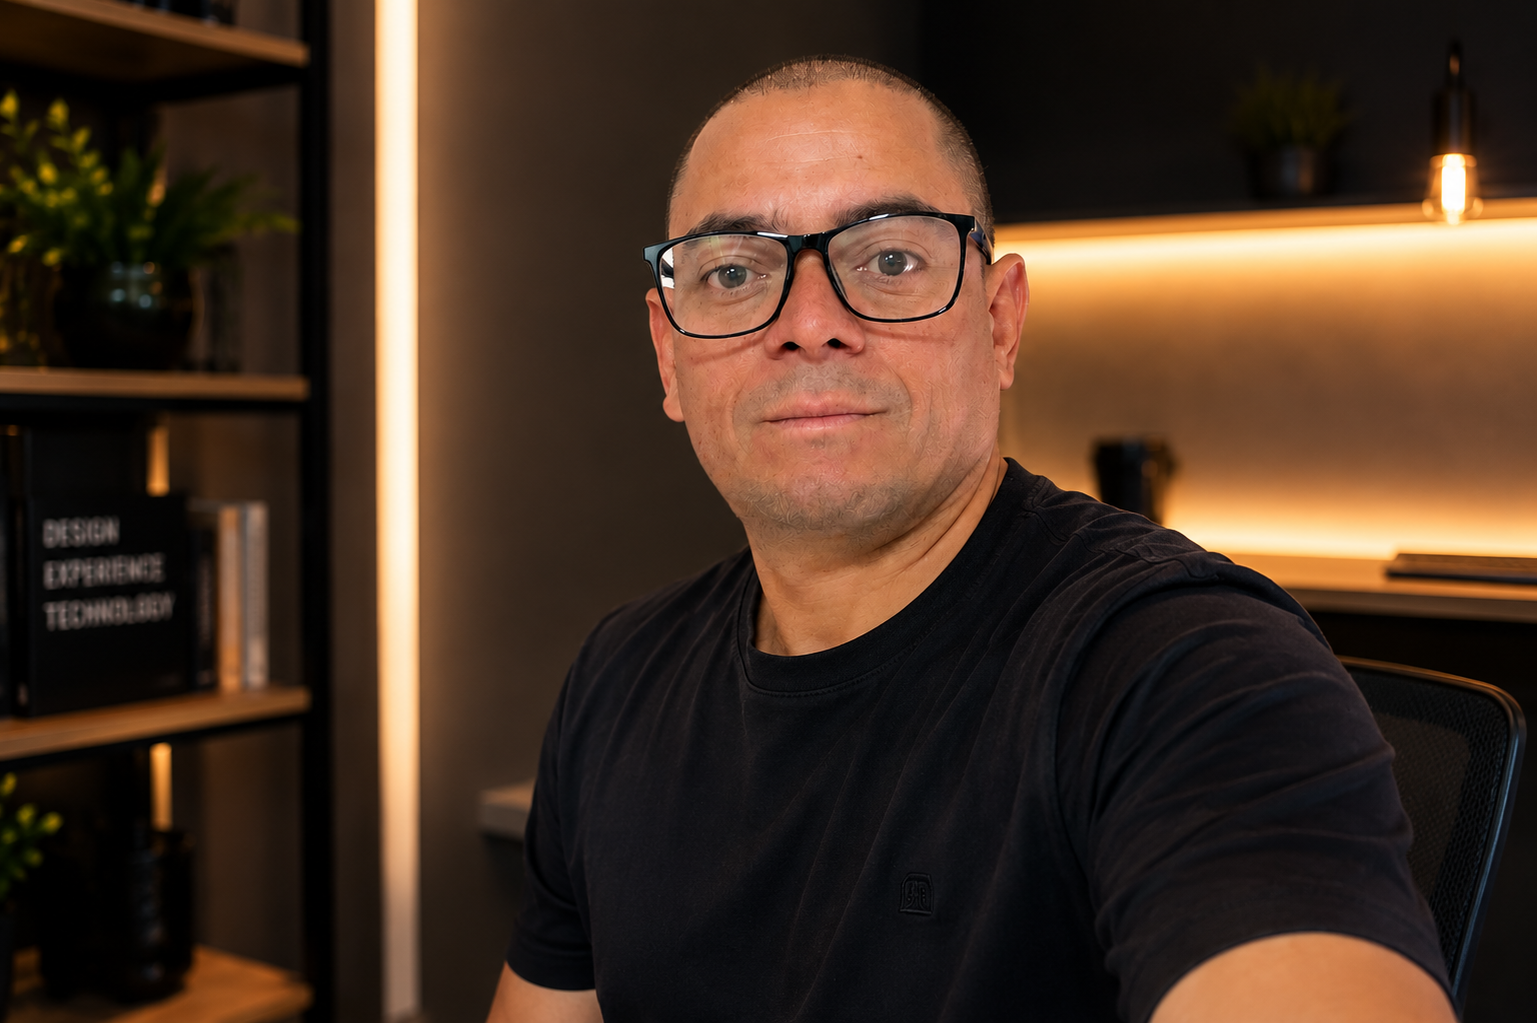
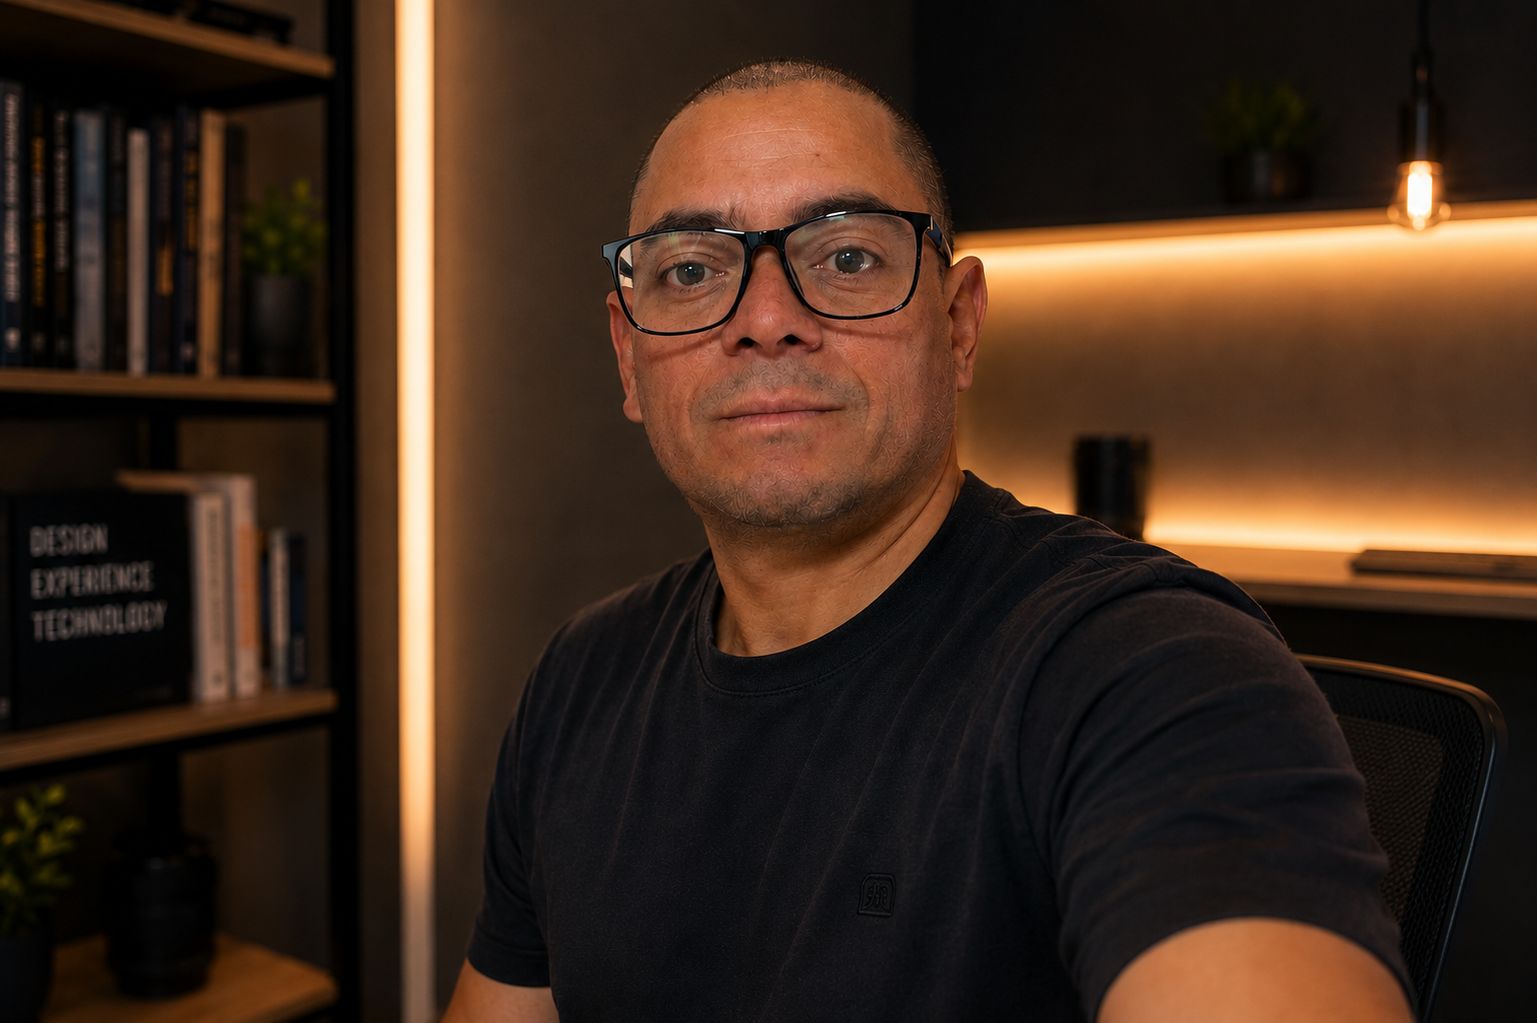
Remove badge da hero e atualiza foto

diff --git a/index.html b/index.html
@@ -167,14 +167,6 @@
                                 class="absolute inset-0 bg-gradient-to-t from-black via-transparent to-transparent opacity-80 pointer-events-none">
                             </div>
 
-                            <!-- Top Badge -->
-                            <div
-                                class="absolute top-8 left-8 bg-black/60 backdrop-blur-xl border border-white/10 px-5 py-2 rounded-full pointer-events-none">
-                                <span class="text-[10px] uppercase font-bold tracking-[0.2em] text-white">AI Product
-                                    Designer & Builder
-
-                                </span>
-                            </div>
                         </div>
 
                         <!-- Floating Info Panel -->
